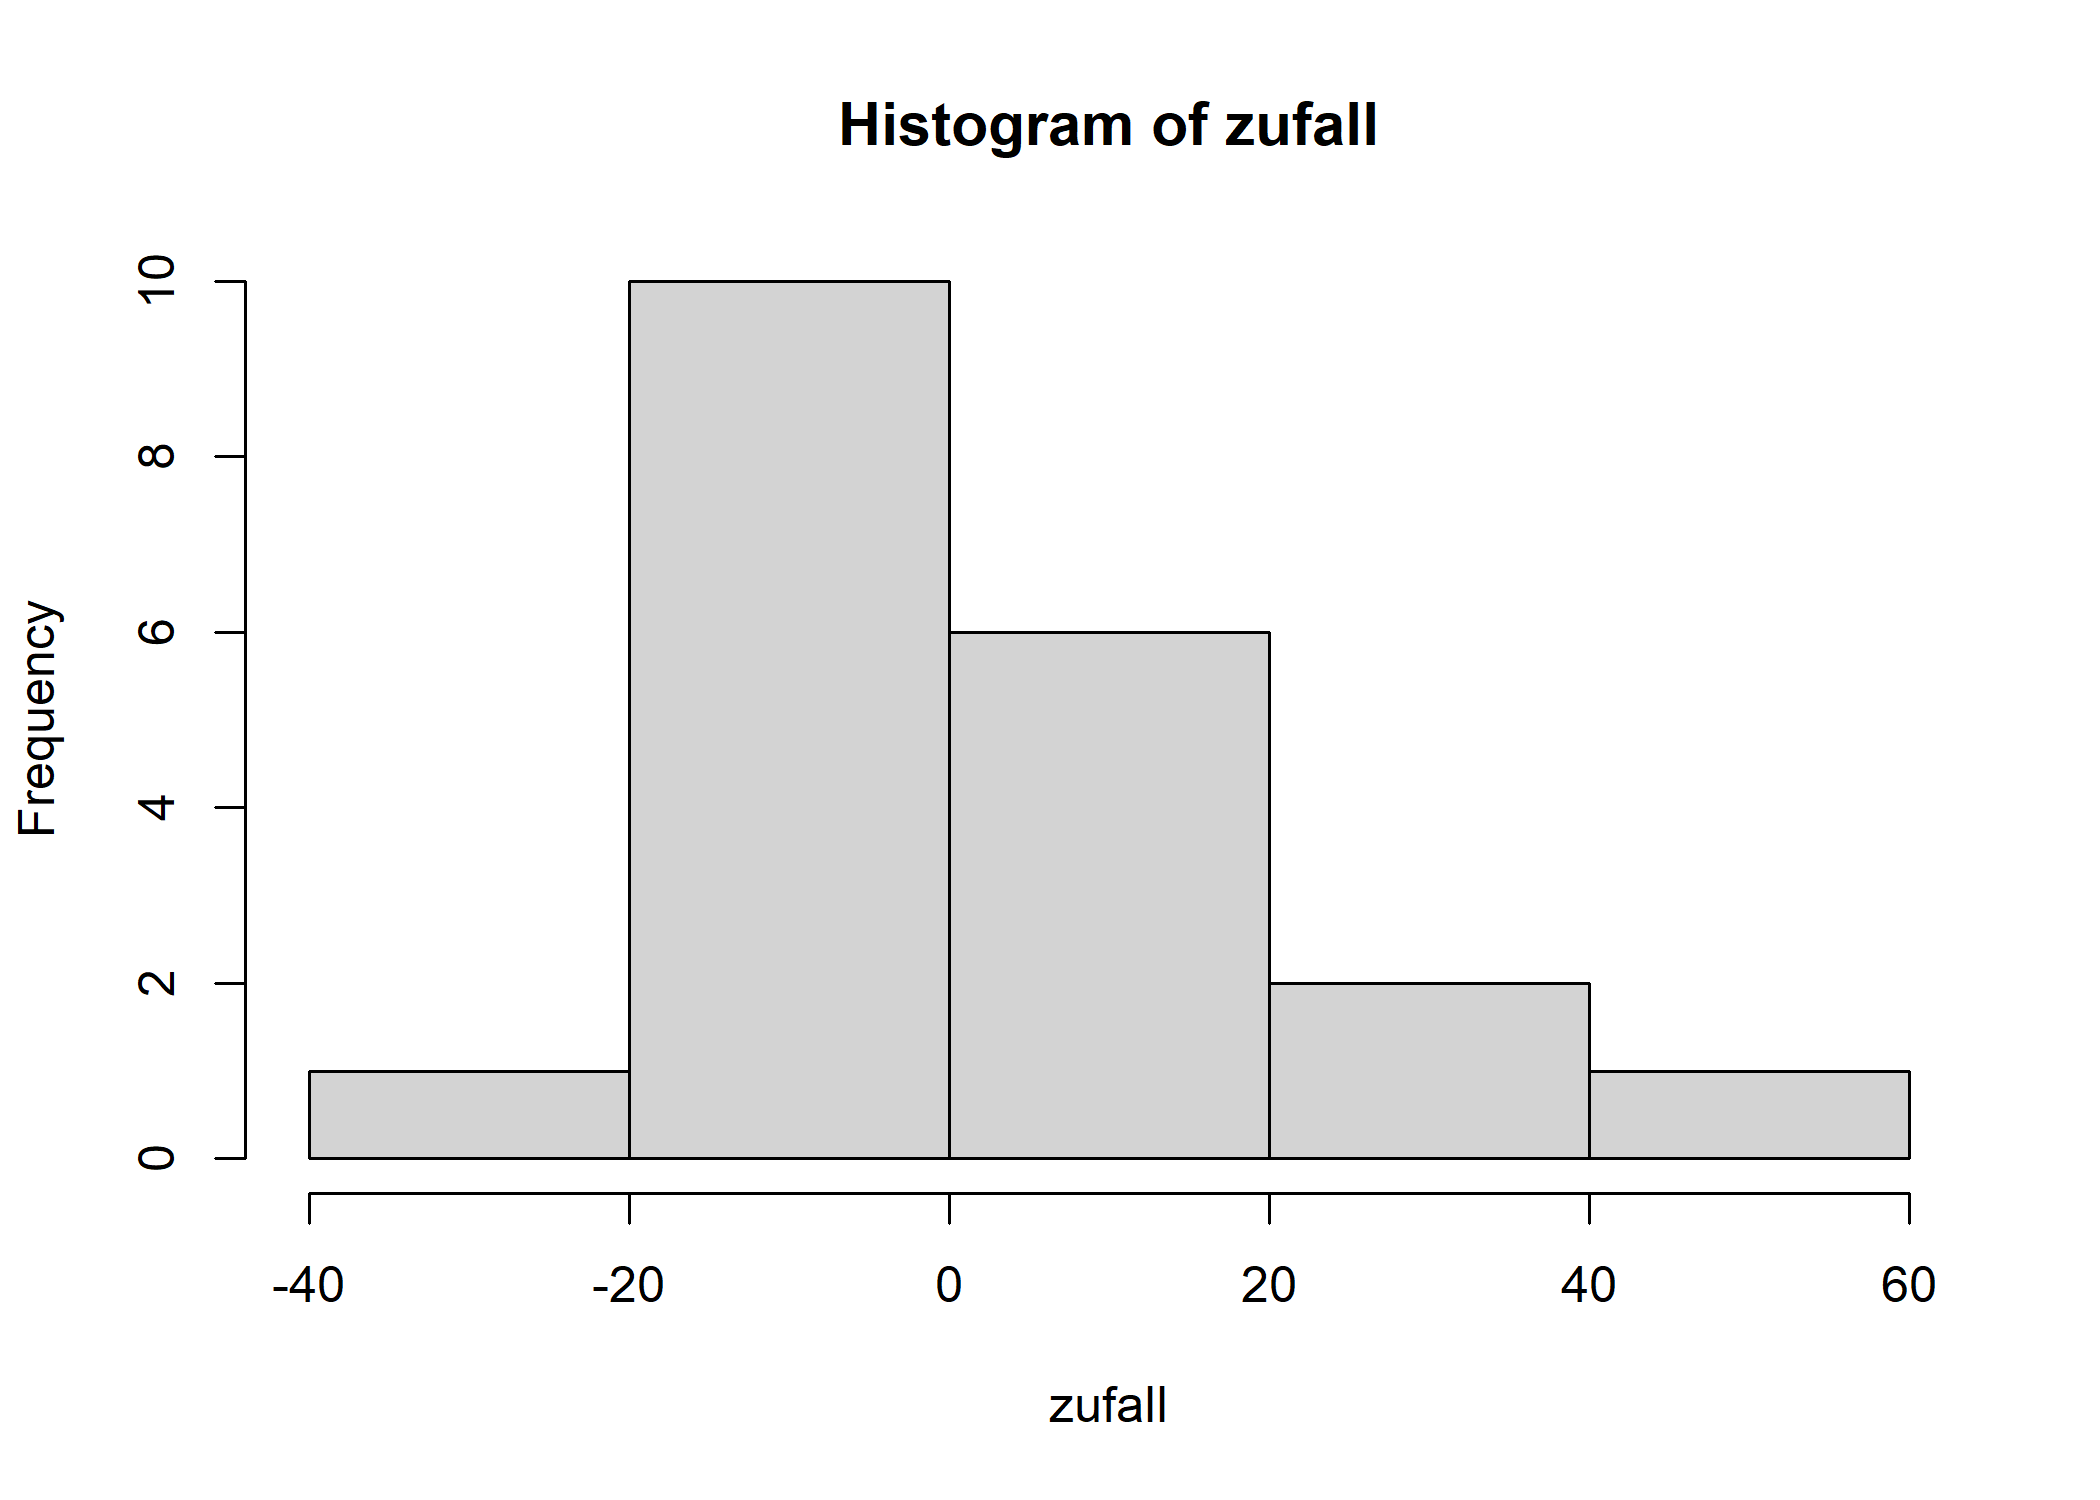
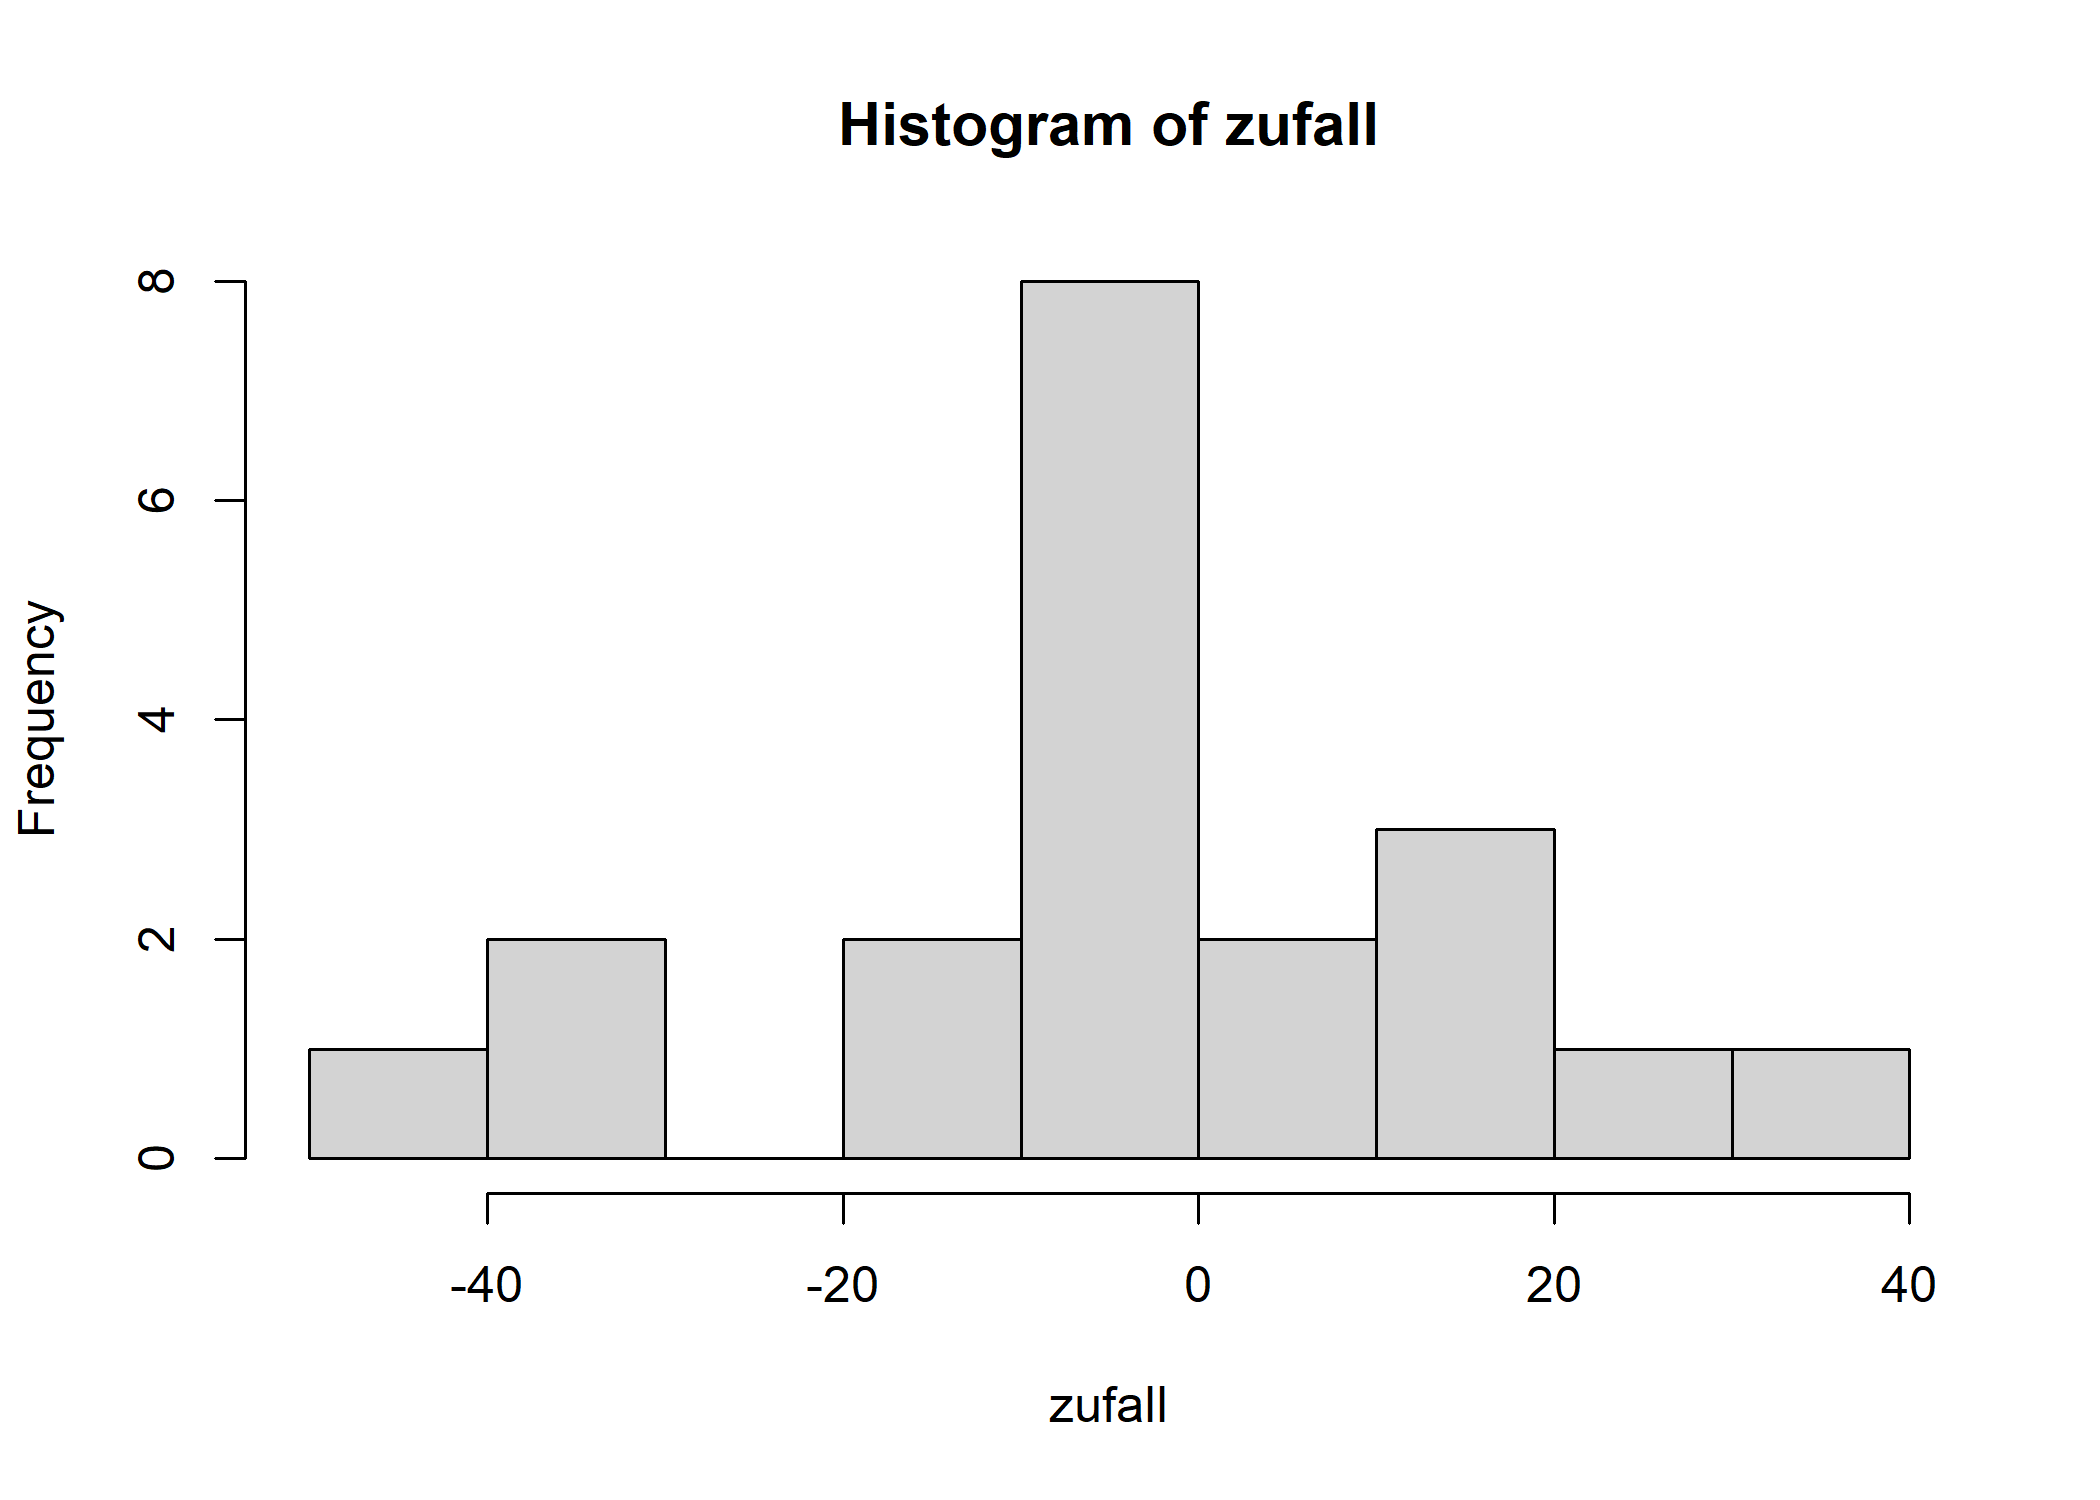
.

diff --git a/docs/m2_home.html b/docs/m2_home.html
@@ -206,7 +206,15 @@ window.Quarto = {
   <ul class="collapse">
   <li><a href="#skalenniveaus" id="toc-skalenniveaus" class="nav-link" data-scroll-target="#skalenniveaus">Skalenniveaus</a></li>
   </ul></li>
-  <li><a href="#deskriptive-statistik" id="toc-deskriptive-statistik" class="nav-link" data-scroll-target="#deskriptive-statistik">Deskriptive Statistik</a></li>
+  <li><a href="#deskriptive-statistik" id="toc-deskriptive-statistik" class="nav-link" data-scroll-target="#deskriptive-statistik">Deskriptive Statistik</a>
+  <ul class="collapse">
+  <li><a href="#klassische-wahrscheinlichkeit" id="toc-klassische-wahrscheinlichkeit" class="nav-link" data-scroll-target="#klassische-wahrscheinlichkeit">Klassische Wahrscheinlichkeit</a></li>
+  <li><a href="#konjunktionen-zwei-ereignisse-gleichzeitig" id="toc-konjunktionen-zwei-ereignisse-gleichzeitig" class="nav-link" data-scroll-target="#konjunktionen-zwei-ereignisse-gleichzeitig">Konjunktionen Zwei Ereignisse gleichzeitig</a></li>
+  <li><a href="#bedingte-wahrscheinlichkeiten" id="toc-bedingte-wahrscheinlichkeiten" class="nav-link" data-scroll-target="#bedingte-wahrscheinlichkeiten">Bedingte Wahrscheinlichkeiten</a></li>
+  <li><a href="#unabhängige-ereignisse" id="toc-unabhängige-ereignisse" class="nav-link" data-scroll-target="#unabhängige-ereignisse">Unabhängige Ereignisse</a></li>
+  <li><a href="#binominal-verteilung" id="toc-binominal-verteilung" class="nav-link" data-scroll-target="#binominal-verteilung">Binominal-Verteilung</a></li>
+  <li><a href="#standardfehler" id="toc-standardfehler" class="nav-link" data-scroll-target="#standardfehler">Standardfehler</a></li>
+  </ul></li>
   </ul>
 </nav>
     </div>
@@ -226,7 +234,7 @@ window.Quarto = {
     <div>
     <div class="quarto-title-meta-heading">Published</div>
     <div class="quarto-title-meta-contents">
-      <p class="date">08.04.2026</p>
+      <p class="date">15.04.2026</p>
     </div>
   </div>
   
@@ -425,17 +433,17 @@ Menge von Objekten in R, durch Pfeil definiert, mit Funktion c=combine zusammeng
 </details>
 <div class="cell-output cell-output-stdout">
 <pre><code>   Min. 1st Qu.  Median    Mean 3rd Qu.    Max. 
--38.053  -7.674  -2.694   2.561   8.729  51.302 </code></pre>
+-43.694  -9.399  -3.377  -3.351   9.466  30.915 </code></pre>
 </div>
 <details open="" class="code-fold">
 <summary>R-Code anzeigen</summary>
 <div class="code-copy-outer-scaffold"><div class="sourceCode cell-code" id="cb18"><pre class="sourceCode r code-with-copy"><code class="sourceCode r"><span id="cb18-1"><a href="#cb18-1" aria-hidden="true" tabindex="-1"></a>zufall</span></code></pre></div><button title="Copy to Clipboard" class="code-copy-button"><i class="bi"></i></button></div>
 </details>
 <div class="cell-output cell-output-stdout">
-<pre><code> [1]   8.336464  -3.286558 -10.701521  10.284456   7.053388   2.028255
- [7]  51.301931 -11.961077 -38.052606   9.906878  -7.479196  -7.616508
-[13]  37.878079  -7.027693  -5.418965  30.252255  -2.102306  -7.845252
-[19] -11.345110   7.009022</code></pre>
+<pre><code> [1]   3.1273889 -31.9860127  -8.0129380  30.9151477   8.3909662  -3.0560338
+ [7]  -7.1803176  -7.1794519  12.6891457  -6.9439816 -14.2536513  18.1706540
+[13] -43.6944823  -3.0845987  16.7745859  21.8856237  -0.2991016  -3.6684386
+[19] -36.0647270 -13.5553694</code></pre>
 </div>
 </div>
 <p><strong>Histogramm</strong><br>
@@ -484,7 +492,7 @@ Ausreißer weiter entfernt, durch Kreis gekennzeichnet</p>
 </p>
 <p>gesamte Fläche Dichtefunktion == 1 = 100%<br>
 </p>
-<p>Bsp. Dichtefunktion</p>
+<p>Bsp.</p>
 <div class="cell">
 <div class="cell-output-display">
 <div>
@@ -502,6 +510,46 @@ f(x) =
 0 &amp; \text{für } x &gt; 6
 \end{cases}
 \]</span></p>
+<section id="klassische-wahrscheinlichkeit" class="level3">
+<h3 class="anchored" data-anchor-id="klassische-wahrscheinlichkeit">Klassische Wahrscheinlichkeit</h3>
+<p><span class="math display">\[P(A) = \frac{\text{Anzahl der günstigen Fälle}}{\text{Anzahl der möglichen Fälle}}\]</span></p>
+</section>
+<section id="konjunktionen-zwei-ereignisse-gleichzeitig" class="level3">
+<h3 class="anchored" data-anchor-id="konjunktionen-zwei-ereignisse-gleichzeitig">Konjunktionen Zwei Ereignisse gleichzeitig</h3>
+<p>Wahrscheinlichkeit für beide Ergebnisse zusammen immer kleiner/gleich Wahrscheinlichkeit eines Einzerergebnises</p>
+</section>
+<section id="bedingte-wahrscheinlichkeiten" class="level3">
+<h3 class="anchored" data-anchor-id="bedingte-wahrscheinlichkeiten">Bedingte Wahrscheinlichkeiten</h3>
+<p><span class="math display">\[P(A|B) = \frac{P(A \wedge B)}{P(B)}\]</span> Wahrscheinlichkeit für A, wenn bereits B gilt: Wahrscheinlichkeit für A <em>und</em> B geteilt durch Wahrscheinlichkeit von B</p>
+<p>Beispiel</p>
+<ul>
+<li><span class="math inline">\(P(\text{promoviert} | \text{Hausfrau})\)</span>: Wahrscheinlichkeit, dass eine Hausfrau einen Doktortitel hat.</li>
+<li><span class="math inline">\(P(\text{Hausfrau} | \text{promoviert})\)</span>: Wahrscheinlichkeit, dass eine Frau mit Doktortitel Hausfrau ist.</li>
+</ul>
+<p>Schnittmenge gleich, Wahrscheinlichkeit total unterschiedlich, weil Basis unterschiedlich</p>
+</section>
+<section id="unabhängige-ereignisse" class="level3">
+<h3 class="anchored" data-anchor-id="unabhängige-ereignisse">Unabhängige Ereignisse</h3>
+<p>beeinflussen sich nicht, daher gilt hier Produktregel</p>
+<p><span class="math display">\[P(A \wedge B) = P(A) \cdot P(B)\]</span></p>
+</section>
+<section id="binominal-verteilung" class="level3">
+<h3 class="anchored" data-anchor-id="binominal-verteilung">Binominal-Verteilung</h3>
+<p>Bernoulli-Experimente: es gibt jeweils nur zwei mögliche Ergebnisse, zb wahr/falsch, Kopf/Zahl, gesund/krank<br>
+Wahrscheinlichkeit für Erfolg = p<br>
+<span class="math display">\[P(A_{k}) = \binom{n}{k} p^{k} (1-p)^{n-k}\]</span></p>
+<p>Beispiel:<br>
+30% depressiv, Stichprobenanzahl 20, Wahrscheinlichkeit für 5 Erkrankte? <span class="math display">\[\binom{20}{5} \cdot 0,3^5 \cdot 0,7^{15} \approx \mathbf{0,179}\]</span></p>
+<p>Stichprobengröße n, Erfolgswahrscheinlichkeit p<br>
+-&gt; Erwartungswert <span class="math inline">\(E = n \cdot p\)</span><br>
+Im Beispiel <span class="math inline">\(E = 20 \cdot 0,3 = 6\)</span><br>
+Erwartungswert entspricht <em>Populationsmittelwert</em> <span class="math inline">\(\mu\)</span>.</p>
+</section>
+<section id="standardfehler" class="level3">
+<h3 class="anchored" data-anchor-id="standardfehler">Standardfehler</h3>
+<p>Standardabweichung Stichprobenverteilung Binominalverteilung<br>
+Standardfehler für <em>Anteil</em> <span class="math display">\[\sigma_{Anteil} = \sqrt{\frac{p(1-p)}{n}}\]</span></p>
+<p>Standardfehler für <em>Mittelwert</em> <span class="math display">\[\hat{\sigma}_{\bar{x}} = \frac{\hat{\sigma}}{\sqrt{n}}\]</span> <span class="math inline">\(\hat{\sigma}\)</span> ist der Standardfehler der Population, <span class="math inline">\(\hat{\sigma}_x\)</span> der Stichprobe</p>
 <section id="verteilungen" class="level4">
 <h4 class="anchored" data-anchor-id="verteilungen">Verteilungen</h4>
 <ul>
@@ -515,6 +563,7 @@ f(x) =
 <p><span class="math inline">\(E(x) = \int x \times f(x) \, dx\)</span></p>
 
 
+</section>
 </section>
 </section>
 

diff --git a/docs/start.html b/docs/start.html
@@ -221,7 +221,7 @@ pre > code.sourceCode > span > a:first-child::before { text-decoration: underlin
 <li>We create data, saved in <code>x</code> and <code>y</code></li>
 <li>We create the plot with the <code>plt.plot</code> function.</li>
 </ul>
-<div id="40120d20" class="cell" data-execution_count="1">
+<div id="0f6ed8d9" class="cell" data-execution_count="1">
 <details class="code-fold">
 <summary>R-Code anzeigen</summary>
 <div class="code-copy-outer-scaffold"><div class="sourceCode cell-code" id="cb1"><pre class="sourceCode python code-with-copy"><code class="sourceCode python"><span id="cb1-1"><a href="#cb1-1" aria-hidden="true" tabindex="-1"></a><span class="im">import</span> matplotlib.pyplot <span class="im">as</span> plt</span>

diff --git a/docs/index.html b/docs/index.html
@@ -230,7 +230,7 @@ window.Quarto = {
 
 <div class="quarto-listing quarto-listing-container-grid" id="listing-listing">
 <div class="list grid quarto-listing-cols-3">
-<div class="g-col-1" data-index="0" data-listing-file-modified-sort="1775613981109" data-listing-reading-time-sort="5" data-listing-word-count-sort="952">
+<div class="g-col-1" data-index="0" data-listing-file-modified-sort="1776208258026" data-listing-reading-time-sort="6" data-listing-word-count-sort="1116">
 <a href="./m2_home.html" class="quarto-grid-link">
 <div class="quarto-grid-item card h-100 card-left">
 <p class="card-img-top">
